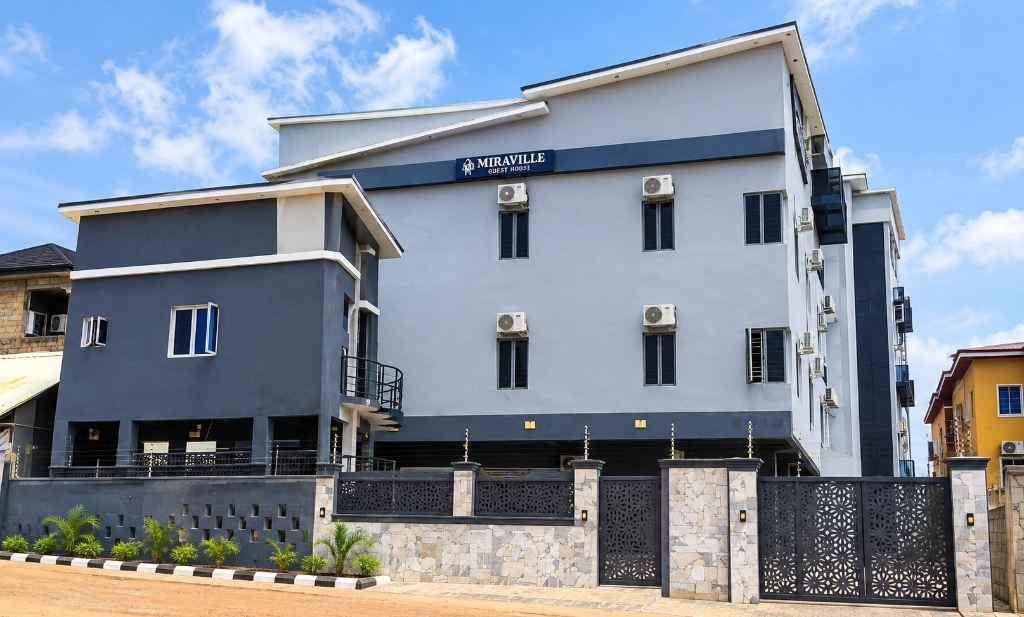
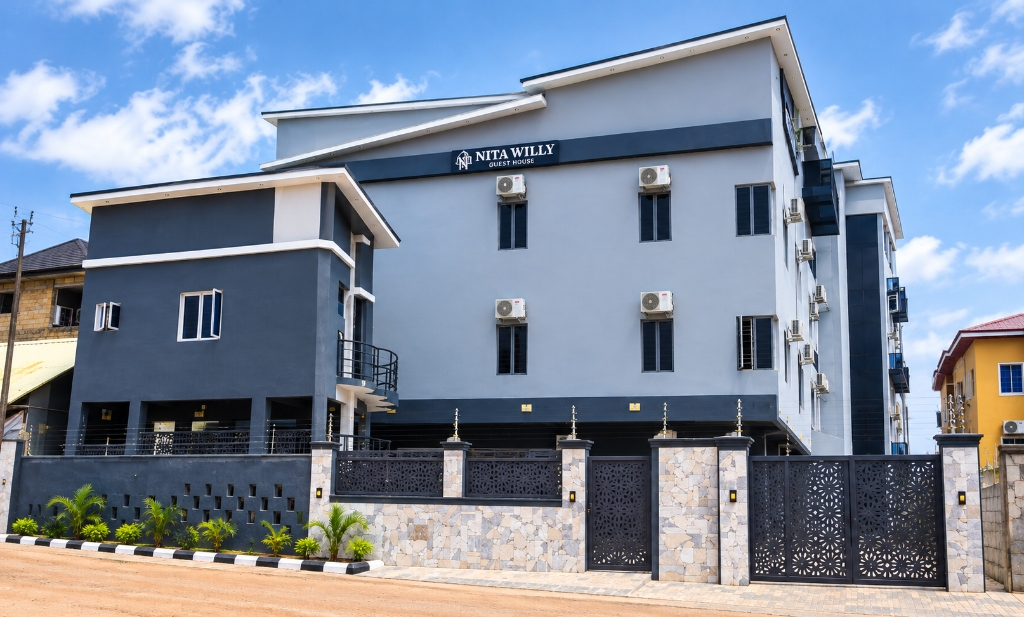
feat: update hero to official Nitawilly building facade and replace lower gradient with deep luxury slate

diff --git a/src/components/Hero.tsx b/src/components/Hero.tsx
@@ -23,9 +23,9 @@ export const Hero: React.FC<HeroProps> = ({ onOpenBooking }) => {
             alt="Nitawilly Hotel and Lounge Kubwa Abuja"
             className="w-full h-full object-cover object-center filter brightness-[0.88] contrast-[1.04]"
           />
-          {/* Subtle cinematic gradient overlays with guaranteed text contrast */}
-          <div className="absolute inset-0 bg-gradient-to-t from-[#FAF8F5] via-[#121416]/65 to-[#0D0E10]/85" />
-          <div className="absolute inset-0 bg-radial from-transparent via-[#0C0D0F]/45 to-[#000000]/75" />
+          {/* Subtle cinematic gradient overlays with guaranteed text contrast and deep slate bottom */}
+          <div className="absolute inset-0 bg-gradient-to-t from-[#141619] via-[#101214]/65 to-[#0A0B0D]/85" />
+          <div className="absolute inset-0 bg-radial from-transparent via-[#0B0C0E]/50 to-[#000000]/80" />
         </motion.div>
       </div>
 
@@ -92,24 +92,21 @@ export const Hero: React.FC<HeroProps> = ({ onOpenBooking }) => {
           initial={{ opacity: 0 }}
           animate={{ opacity: 1 }}
           transition={{ duration: 1, delay: 0.8 }}
-          className="mt-12 sm:mt-16 flex flex-wrap items-center justify-center gap-4 sm:gap-8 text-white/70 text-[11px] sm:text-xs tracking-wider uppercase font-medium"
+          className="mt-12 sm:mt-16 flex flex-wrap items-center justify-center gap-3.5 sm:gap-7 text-white/80 text-[11px] sm:text-xs tracking-wider uppercase font-medium"
         >
-          <span className="flex items-center gap-1.5">
+          <span className="flex items-center gap-1.5 px-2.5 py-1 rounded-full bg-white/5 border border-white/10 backdrop-blur-xs">
             <Sparkles className="w-3.5 h-3.5 text-[#C2A374]" />
             Outdoor Pool
           </span>
-          <span className="w-1 h-1 rounded-full bg-white/30 hidden sm:inline" />
-          <span className="flex items-center gap-1.5">
+          <span className="flex items-center gap-1.5 px-2.5 py-1 rounded-full bg-white/5 border border-white/10 backdrop-blur-xs">
             <Sparkles className="w-3.5 h-3.5 text-[#C2A374]" />
             Lounge & Bar
           </span>
-          <span className="w-1 h-1 rounded-full bg-white/30 hidden sm:inline" />
-          <span className="flex items-center gap-1.5">
+          <span className="flex items-center gap-1.5 px-2.5 py-1 rounded-full bg-white/5 border border-white/10 backdrop-blur-xs">
             <Sparkles className="w-3.5 h-3.5 text-[#C2A374]" />
             All Rooms En-suite
           </span>
-          <span className="w-1 h-1 rounded-full bg-white/30 hidden sm:inline" />
-          <span className="flex items-center gap-1.5">
+          <span className="flex items-center gap-1.5 px-2.5 py-1 rounded-full bg-white/5 border border-white/10 backdrop-blur-xs">
             <Sparkles className="w-3.5 h-3.5 text-[#C2A374]" />
             24/7 Power & Front Desk
           </span>
